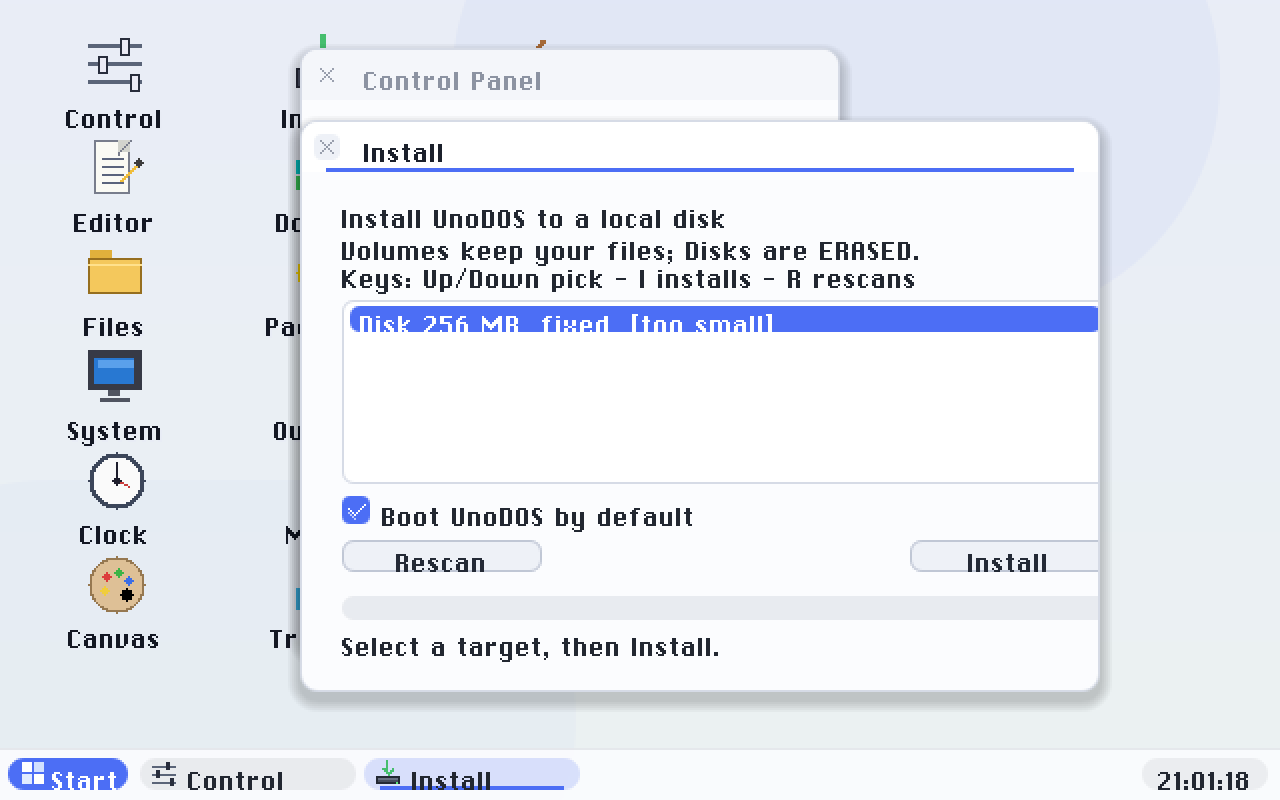
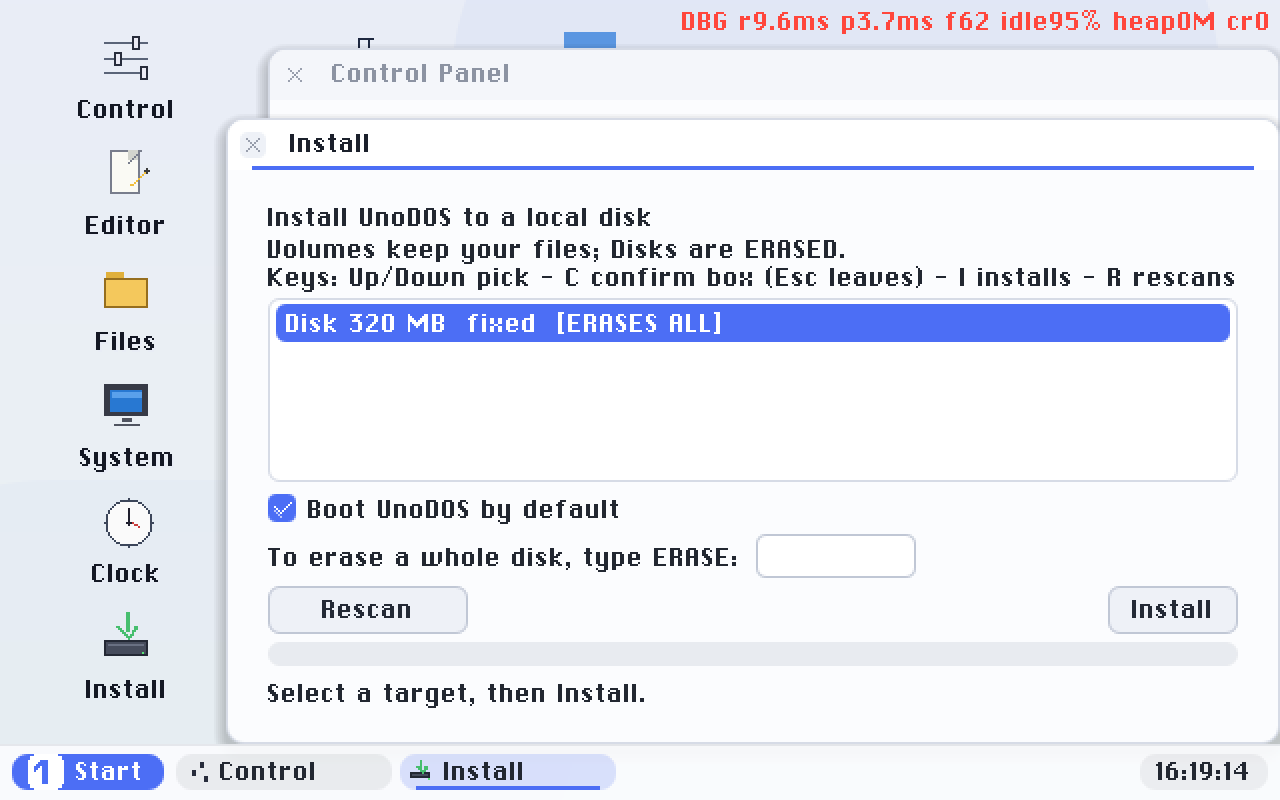
pc64/installer: make install_test's disk phase actually assert
run_phase() returned True unconditionally for the whole-disk mode and verified
nothing, so the gate exited 0 while installing nothing at all. It had been green
through three stacked breakages, each visible in the committed screenshots:

  1. the scratch disk was a hardcoded 256 MiB, and install_disk() refuses a target
     smaller than the source's used extent + 33 sectors - so a 256 MiB stick could
     never fit. The app listed it "[too small]" and said "That target cannot be
     used"; the phase passed anyway.
  2. the Start-menu position was hardcoded at 6. Dropping the Network app
     (3aa37d1) shifted Install to 5, so the test opened MUSIC and drove that.
     install_confirm_test.py was updated to 5 at the time; this file was not.
  3. whole-disk install grew a confirm gate that needs the word ERASE TYPED into
     a box. Two bare `i` presses no longer arm anything.

Fixes: size the scratch disk from the actual USB image (+64 MiB) so it cannot go
stale when the stick is rebuilt; read menu positions from the shell's own
kAppNames[] so both sides share one source of truth; drive the confirm box the
way tools/install_confirm_test.py specifies.

Assertions added, both phases:
  - offline (mtools): whole-disk => \EFI\BOOT\BOOTX64.EFI + APPS\*.UNO present;
    ESP => the same under \EFI\UNODOS\ plus the foreign marker. Partition extent
    now read from the target GPT rather than recomputed from a constant, which was
[…]

diff --git a/pc64/tools/install_test.py b/pc64/tools/install_test.py
@@ -21,7 +21,7 @@ build/unodos-uefi.img (python3 tools/mkuefi.py after ./build.sh).
 NVRAM (build/inst-vars.fd) persists across the install boot and the from-disk
 boot, so the Boot#### / BootOrder entry written by the installer is live.
 """
-import json, os, socket, subprocess, sys, time
+import json, os, re, socket, subprocess, sys, time
 
 PC64 = os.path.dirname(os.path.dirname(os.path.abspath(__file__)))
 os.chdir(PC64)
@@ -32,7 +32,39 @@ QMP_SOCK = "/tmp/unodos-inst-qmp.sock"
 USB_IMG = "build/unodos-uefi.img"
 DISK_IMG = "build/inst-disk.img"
 VARS = "build/inst-vars.fd"
-DISK_MIB = 256
+
+# The target disk must be BIGGER than the source stick: install_disk() refuses a
+# target whose LastBlock < g_src_need + 33 (installer.c), where g_src_need is the
+# source GPT's last used sector + 1, and it needs room to relocate the backup GPT.
+# This used to be a hardcoded 256 MiB, which a 256 MiB stick can never satisfy -
+# so the Install app listed the target as "[too small]", refused it, and the disk
+# phase then "passed" having installed nothing (see the assertion note in
+# run_phase). Derive it from the actual image instead, so the test cannot go stale
+# when the stick is rebuilt at a different size.
+DISK_MARGIN_MIB = 64
+
+
+def disk_mib():
+    usb_mib = (os.path.getsize(USB_IMG) + (1 << 20) - 1) >> 20
+    return usb_mib + DISK_MARGIN_MIB
+
+
+def require_prereqs():
+    """Fail with a usable message instead of an unhandled ConnectionRefusedError.
+
+    QEMU exits immediately when a -drive file is missing, so the first symptom
+    used to be Qmp() failing to connect to a socket nothing was ever listening
+    on - which says nothing about the actual cause."""
+    missing = [p for p in (OVMF_CODE, OVMF_VARS, USB_IMG) if not os.path.exists(p)]
+    if missing:
+        print("FAIL: missing prerequisite(s):")
+        for p in missing:
+            print("   " + p)
+        if USB_IMG in missing:
+            print("\nBuild the USB image first:  python3 tools/mkuefi.py 256")
+            print("(after ./build.sh - see the module docstring)")
+        return False
+    return True
 
 
 class Qmp:
@@ -142,10 +174,27 @@ def start_qemu(with_usb):
     return subprocess.Popen(argv, stderr=open("build/inst-qemu.log", "ab"))
 
 
+def menu_apps():
+    """The Start-menu order, read from the shell's OWN table.
+
+    These positions were hardcoded, and they drift: dropping the Network app
+    (3aa37d1) moved Install and this test then opened whatever now sat at index 6
+    - Music - so it drove the wrong app for weeks. Nothing noticed, because the
+    disk phase asserted nothing. Derive from kAppNames so both sides share one
+    source of truth."""
+    with open("pc64_uui.c", encoding="utf-8", errors="replace") as f:
+        src = f.read()
+    m = re.search(r"kAppNames\[NNATIVE\]\s*=\s*\{(.*?)\}", src, re.S)
+    if not m:
+        raise RuntimeError("cannot find kAppNames[] in pc64_uui.c")
+    return re.findall(r'"([^"]+)"', m.group(1))
+
+
 def open_install(q):
+    idx = menu_apps().index("Install")     # menu order = app order
     combo(q, "ctrl", "esc")                # Start menu
     time.sleep(0.8)
-    keys(q, *(["down"] * 6))               # menu order = app order; Install = 6
+    keys(q, *(["down"] * idx))
     keys(q, "ret")
     time.sleep(1.5)
 
@@ -156,13 +205,31 @@ BTN_INSTALL = (503, 278)
 BTN_RESCAN = (220, 278)
 
 
+def type_text(q, s):
+    for ch in s:
+        keys(q, ch.lower())
+        time.sleep(0.10)
+
+
 def run_install(q, tag, double_confirm):
     shot(q, tag + "_win")
-    keys(q, "i")                           # Install (keyboard accelerator)
-    time.sleep(0.5)
     if double_confirm:
+        # Whole-disk install is gated on TYPING the word ERASE into a confirm box
+        # (see tools/install_confirm_test.py, which is the spec for this gate).
+        # Two bare `i` presses no longer commit anything - which is what this test
+        # was still doing, so it armed nothing and installed nothing.
+        keys(q, "c")                       # C puts the caret in the confirm box
+        time.sleep(0.5)
+        type_text(q, "erase")
+        time.sleep(0.4)
+        keys(q, "esc")                     # leave the box; accelerators return
+        time.sleep(0.4)
         shot(q, tag + "_armed")
-        keys(q, "i")                       # confirm the erase
+        keys(q, "i")                       # arms
+        time.sleep(0.8)
+        keys(q, "i")                       # commits
+    else:
+        keys(q, "i")                       # ESP install: single accelerator
     # the copy runs synchronously; poll with shots until it settles
     time.sleep(4)
     for i in range(24):
@@ -175,29 +242,115 @@ def run_install(q, tag, double_confirm):
 
 
 def phase_boot_from_disk(tag):
+    """Boot the internal disk ALONE and assert UnoDOS actually comes up.
+
+    Returns True/False - it used to return nothing and the caller ignored it,
+    so a disk that dropped straight to the UEFI shell still "passed"."""
+    ok = False
     qemu = start_qemu(with_usb=False)
     try:
         q = Qmp(QMP_SOCK)
         print("from-disk boot; waiting...")
         time.sleep(20)
-        shot(q, tag + "_fromdisk")
+        ok = shot_assert_desktop(q, tag + "_fromdisk")
         # decoupling proof: apps are .UNO modules, so opening one on the
         # installed system exercises the loader against the installed volume
         # (\EFI\UNODOS\APPS on an ESP install, the cloned APPS\ on whole-disk).
         combo(q, "ctrl", "esc")            # Start menu
         time.sleep(0.8)
-        keys(q, *(["down"] * 7))           # menu order = app order; Dostris = 7
+        # first entry past the native apps = the first legacy (.UNO) app, Dostris
+        keys(q, *(["down"] * len(menu_apps())))
         keys(q, "ret")
         time.sleep(2.0)
         shot(q, tag + "_fromdisk_app")
         q.cmd("quit")
     finally:
         qemu.wait(timeout=15)
+    return ok
+
+
+def part_extent(img):
+    """(first_lba, sectors) of GPT partition entry 1, or None if there isn't one.
+
+    Read from the disk rather than recomputed from a constant: after a whole-disk
+    clone the ESP is the SOURCE stick's size, not the target's, so any arithmetic
+    based on the target geometry extracts the wrong byte range."""
+    with open(img, "rb") as f:
+        f.seek(2 * 512)
+        e = f.read(128)
+    if len(e) < 128 or e[:16] == b"\x00" * 16:
+        return None
+    first = int.from_bytes(e[32:40], "little")
+    last = int.from_bytes(e[40:48], "little")
+    return (first, last - first + 1) if last >= first else None
+
+
+def extract_part(img, dest):
+    ext = part_extent(img)
+    if not ext:
+        return False
+    first, sectors = ext
+    with open(img, "rb") as f:
+        f.seek(first * 512)
+        data = f.read(sectors * 512)
+    with open(dest, "wb") as f:
+        f.write(data)
+    return True
+
+
+def ppm_ink(path):
+    """Fraction of non-black pixels in a P6 PPM, and mean luminance.
+
+    Distinguishes "the installed disk booted UnoDOS" from "it dropped to the UEFI
+    shell", with no image library. The shell is a black screen with a few lines of
+    text (~3% ink); any desktop, light or dark, covers essentially the whole frame.
+    Ink fraction is used for the verdict because it survives a theme change in a
+    way that mean brightness would not."""
+    with open(path, "rb") as f:
+        data = f.read()
+    fields, i = [], 2                       # skip the "P6" magic
+    while len(fields) < 3 and i < len(data):
+        while i < len(data) and data[i:i + 1].isspace():
+            i += 1
+        if data[i:i + 1] == b"#":           # comment line
+            while i < len(data) and data[i:i + 1] != b"\n":
+                i += 1
+            continue
+        j = i
+        while j < len(data) and not data[j:j + 1].isspace():
+            j += 1
+        fields.append(int(data[i:j]))
+        i = j
+    px = data[i + 1:]                       # single whitespace byte after maxval
+    ink = lum = n = 0
+    for k in range(0, len(px) - 2, 3 * 97):  # sample: 1 MPx is plenty at 1/97
+        r, g, b = px[k], px[k + 1], px[k + 2]
+        if r > 8 or g > 8 or b > 8:
+            ink += 1
+        lum += r + g + b
+        n += 1
+    return (ink / float(n), lum / (3.0 * n)) if n else (0.0, 0.0)
+
+
+def shot_assert_desktop(q, tag):
+    """screenshot + assert the frame actually shows a booted desktop"""
+    ppm = "shots/%s.ppm" % tag
+    q.cmd("screendump", filename=ppm)
+    time.sleep(0.4)
+    ink, lum = ppm_ink(ppm)
+    subprocess.run([sys.executable, "tools/ppm2png.py", ppm, "shots/%s.png" % tag],
+                   check=True)
+    os.remove(ppm)
+    ok = ink >= 0.50
+    print("shot: shots/%s.png  ink %.0f%% luma %.0f  -> %s"
+          % (tag, ink * 100, lum,
+             "desktop" if ok else "NOT A DESKTOP (UEFI shell / black screen)"))
+    return ok
 
 
 def make_blank_disk():
     with open(DISK_IMG, "wb") as f:
-        f.truncate(DISK_MIB * 1024 * 1024)
+        f.truncate(disk_mib() * 1024 * 1024)
 
 
 def make_esp_disk():
@@ -209,7 +362,7 @@ def make_esp_disk():
                     DISK_IMG], check=True,
                    stdout=subprocess.DEVNULL, stderr=subprocess.DEVNULL)
     fat = "/tmp/uno_inst_esp.img"
-    part_sectors = DISK_MIB * 2048 - 2048 - 33
+    part_sectors = part_extent(DISK_IMG)[1]
     subprocess.run(["mformat", "-C", "-i", fat, "-T", str(part_sectors),
                     "-h", "64", "-s", "32", "-F", "-v", "OTHEROS", "::"], check=True)
     subprocess.run(["mmd", "-i", fat, "::/EFI"], check=True)
@@ -226,24 +379,35 @@ def make_esp_disk():
     os.remove(fat)
 
 
-def verify_esp_disk():
-    """post-install: foreign marker intact + \\EFI\\UNODOS\\BOOTX64.EFI present"""
+APPS = ["DOSTRIS", "PACMAN", "OUTLAST", "MUSIC", "TRACKER", "PAINT", "NETWORK"]
+
+
+def verify_paths(label, paths):
+    """offline (mtools) check that the installed volume holds `paths`"""
     fat = "/tmp/uno_inst_esp.img"
-    part_sectors = DISK_MIB * 2048 - 2048 - 33
-    with open(DISK_IMG, "rb") as f:
-        f.seek(2048 * 512)
-        data = f.read(part_sectors * 512)
-    with open(fat, "wb") as f:
-        f.write(data)
+    if not extract_part(DISK_IMG, fat):
+        print("[%s] FAIL: no GPT partition on the target - nothing was installed" % label)
+        return False
     ok = True
-    apps = ["DOSTRIS", "PACMAN", "OUTLAST", "MUSIC", "TRACKER", "PAINT", "NETWORK"]
-    for path in (["::/EFI/OTHER/MARKER.TXT", "::/EFI/UNODOS/BOOTX64.EFI"] +
-                 ["::/EFI/UNODOS/APPS/%s.UNO" % a for a in apps]):
+    for path in paths:
         r = subprocess.run(["mdir", "-i", fat, path], capture_output=True)
-        print("%-36s %s" % (path, "OK" if r.returncode == 0 else "MISSING"))
+        print("%-40s %s" % (path, "OK" if r.returncode == 0 else "MISSING"))
         ok = ok and r.returncode == 0
     os.remove(fat)
     return ok
+
+
+def verify_esp_disk():
+    """post-install: foreign marker intact + \\EFI\\UNODOS\\BOOTX64.EFI present"""
+    return verify_paths("esp", ["::/EFI/OTHER/MARKER.TXT", "::/EFI/UNODOS/BOOTX64.EFI"] +
+                        ["::/EFI/UNODOS/APPS/%s.UNO" % a for a in APPS])
+
+
+def verify_disk_clone():
+    """post-install (whole disk): the clone boots via the removable-media path,
+    so \\EFI\\BOOT\\BOOTX64.EFI and the APPS\\ modules must be on the target."""
+    return verify_paths("disk", ["::/EFI/BOOT/BOOTX64.EFI"] +
+                        ["::/APPS/%s.UNO" % a for a in APPS])
 
 
 def run_phase(mode):
@@ -264,19 +428,31 @@ def run_phase(mode):
         q.cmd("quit")
     finally:
         qemu.wait(timeout=15)
-    if mode == "esp" and not verify_esp_disk():
-        print("[esp] OFFLINE VERIFY FAILED")
+    # Offline verify BOTH modes. The disk phase used to check nothing at all and
+    # then return True unconditionally, so it stayed green while the Install app
+    # was refusing the target outright ("[too small]") and installing nothing.
+    verified = verify_esp_disk() if mode == "esp" else verify_disk_clone()
+    if not verified:
+        print("[%s] OFFLINE VERIFY FAILED" % mode)
         return False
-    phase_boot_from_disk("inst_" + mode)
+    booted = phase_boot_from_disk("inst_" + mode)
+    if not booted:
+        print("[%s] FROM-DISK BOOT FAILED - the installed disk did not reach the desktop" % mode)
+        return False
+    print("[%s] PASS - installed, and the disk boots UnoDOS on its own" % mode)
     return True
 
 
 def main():
+    if not require_prereqs():
+        sys.exit(2)
     os.makedirs("shots", exist_ok=True)
     modes = sys.argv[1:] or ["disk", "esp"]
     for m in modes:
         if not run_phase(m):
+            print(">> install-test FAILED (%s)" % m)
             sys.exit(1)
+    print(">> install-test OK (%s)" % ", ".join(modes))
 
 
 if __name__ == "__main__":

diff --git a/pc64/INSTALL.md b/pc64/INSTALL.md
@@ -43,7 +43,30 @@ To undo on any machine: delete `\EFI\UNODOS\` from the ESP and remove the
 
 `python3 tools/install_test.py [disk|esp]` (WSL/Linux; `UNO_KVM=1` to use KVM)
 boots the USB image + a scratch disk in QEMU/OVMF, drives the Install app by
-keyboard, then reboots from the scratch disk alone and screenshots the desktop.
-The `esp` phase additionally builds a foreign-content ESP first and verifies
-offline (mtools) that the foreign files survived. Both phases pass on WSL
-(TCG) and devbuntu (KVM) as of 2026-07-19.
+keyboard, then reboots from the scratch disk alone. Needs
+`build/unodos-uefi.img` (`python3 tools/mkuefi.py 256`); it now says so plainly
+instead of failing on a QMP socket that never opened.
+
+**Both phases assert** (they did not always - see below):
+- **offline (mtools):** whole-disk => `\EFI\BOOT\BOOTX64.EFI` + `APPS\*.UNO` on
+  the target; ESP => the same under `\EFI\UNODOS\`, plus the foreign marker intact.
+  The partition extent is read from the target's GPT, since after a whole-disk
+  clone the ESP is the *source* stick's size.
+- **from-disk boot:** the frame after booting the disk alone must actually be a
+  desktop. Measured as the fraction of non-black pixels (a booted desktop covers
+  the frame at ~100%; the UEFI shell is a black screen with a few lines of text at
+  ~1%), which survives a theme change in a way brightness alone would not.
+
+The scratch disk is sized from the USB image + 64 MiB, because `install_disk()`
+refuses a target smaller than the source's used extent + 33 sectors.
+
+> **Why the asserts.** Until 2026-07-28 the `disk` phase returned success
+> unconditionally and checked nothing, so it stayed green through three stacked
+> breakages: the scratch disk was a hardcoded 256 MiB that the app listed as
+> `[too small]` and refused; the Start-menu index was hardcoded, so after the
+> Network app was dropped the test opened **Music** instead of Install; and the
+> whole-disk confirm gate had grown a type-`ERASE` box that two bare `i` presses
+> no longer satisfy. The committed screenshots show all of it — nobody was
+> looking, because the exit code said pass. Menu positions now come from the
+> shell's own `kAppNames[]`, and the confirm sequence matches
+> `tools/install_confirm_test.py`, which is the spec for that gate.
